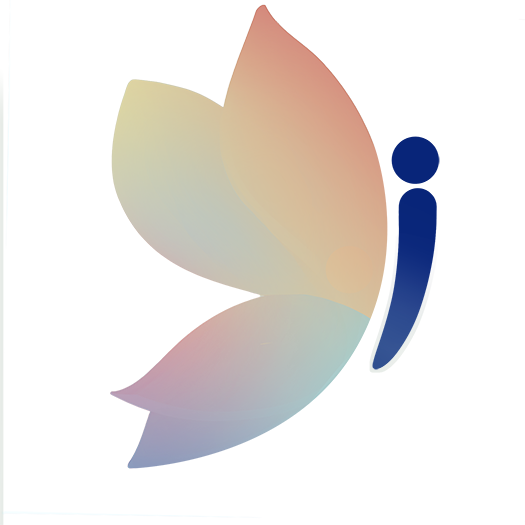
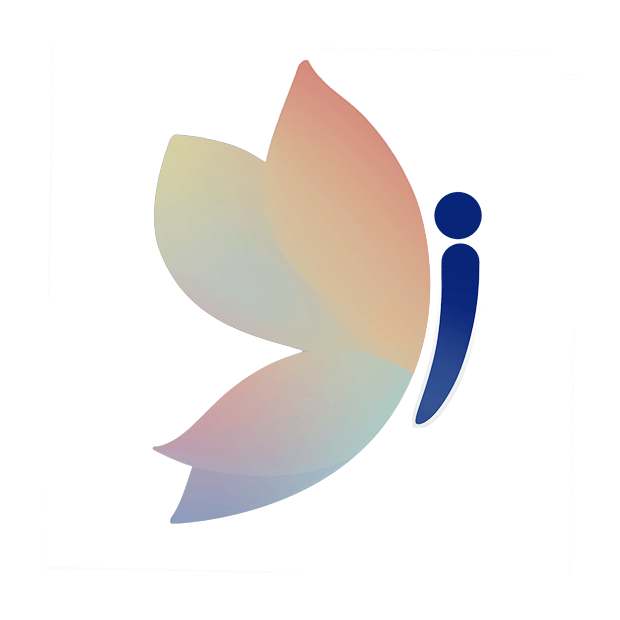
design port update

diff --git a/designPortfolio.html b/designPortfolio.html
@@ -42,6 +42,17 @@
   <div class="over">
     <i class="far fa-times-circle close" id="ex"></i>
     <p class="desc hide">
+      Design of <a href="https://www.lysol.ca/en/biodegradable/biodegradable-wipes/">Lysol Canada’s webpage</a> promoting new biodegradable wipes, including animated videos (2021).
+      <span>
+        (Please note, I was not involved in the development of these pages)
+      </span>
+    </p>
+    <a href="_design/assets/bio1.jpg"><img src="_design/assets/bio1.jpg" alt="" /></a>
+    <a href="_design/assets/bio2.jpg"><img src="_design/assets/bio2.jpg" alt="" /></a>
+    <iframe src="https://www.youtube.com/embed/0n-9yjpfWlg" title="YouTube video player" allow="accelerometer; autoplay; clipboard-write; encrypted-media; gyroscope; picture-in-picture" allowfullscreen></iframe>
+    <iframe src="https://www.youtube.com/embed/w79df_pg3Y0" allow="accelerometer; autoplay; clipboard-write; encrypted-media; gyroscope; picture-in-picture" allowfullscreen></iframe>
+    
+    <p class="desc hide">
       Redesign of <a href="http://www.woolite.ca">Woolite Canada’s</a>
        website. (2020)
       <span>
@@ -131,6 +142,7 @@
         <i class="far fa-times-circle close" id="ex"></i>
         <p class="desc hide"> Flyers and social media graphics marketing services and events</p>
         <a href="_design/assets/bikechain-flyer.jpg"><img src="_design/assets/bikechain-flyer.jpg" alt="flyer for Bikechain" /></a>
+        <a href="_design/assets/flat-fix.jpg"><img src="_design/assets/flat-fix.jpg" alt="flyer for Bikechain" /></a>
 
         <p class="desc hide"> Annual administrative reports for Bikechain, a bicycle cooperative in Toronto (2018-2020)</p>
 
@@ -155,18 +167,19 @@
     <li>
       <div class="over">
         <i class="far fa-times-circle close" id="ex"></i>
-        <p class="desc hide"> Logo illustration and UI design for The Interpreters Lab, (nb: placeholder images and copy are used throughout to anonymize unofficial client info) </p>
-        <a href="_design/assets/butterfly.jpg"><img src="_design/assets/butterfly.jpg" alt="flyer for Bikechain" /></a>
+        <p class="desc hide"> Logo illustration and UI design for The Interpreters Lab <span>(nb: placeholder images and copy are used throughout to anonymize unofficial client info) </span> </p>
+        <a href="_design/assets/Butterfly.png"><img src="_design/assets/Butterfly.png" alt="butterfly illustration"/></a>
+        <a href="_design/assets/Butterfly2.png"><img src="_design/assets/Butterfly2.png" alt="butterfly illustration"/></a>
         <a href="_design/assets/intlab.jpg"><img src="_design/assets/intlab.jpg" alt="flyer for Bikechain" /></a>
        
       </div>
 
       <div class="box">
-        <h3>The Interpreters Lab<br>Logo + Web Design</h3>
+        <h3>Interpreters Lab<br>Logo + Web Design</h3>
         <div class="blue">
       </div>
 
-      <img src="_design/assets/butterfly.jpg" class="circleImg" alt="">
+      <img src="_design/assets/butterfly.png" class="circleImg" alt="">
     </li>
 
 

diff --git a/_design/designStyles/styles.css b/_design/designStyles/styles.css
@@ -435,12 +435,11 @@ p, h3 {
   font-size: 1.14vw;
   line-height: 1.4;
   text-transform: uppercase;
-  text-align: justify;
   margin: auto;
 }
 
 span {
-  font-size: 1vw;
+  font-size: .7vw;
   line-height: 1.2;
   display: block;
   text-transform: none;
@@ -455,6 +454,12 @@ i {
   top: 0px;
   right: 0px;
   cursor: pointer;
+  -webkit-transition: .2s;
+  transition: .2s;
+}
+
+i:hover {
+  color: #d16602;
 }
 
 .hide {
@@ -518,8 +523,8 @@ a {
   width: 100%;
   height: 100%;
   border-radius: 50%;
-  -webkit-transition: .2s ease-in-out;
-  transition: .2s ease-in-out;
+  -webkit-transition: .2s;
+  transition: .2s;
   z-index: 1;
   -ms-grid-row: 1;
   -ms-grid-column: 1;
@@ -528,17 +533,20 @@ a {
 }
 
 .blue:hover {
-  background: #af750a;
+  background: #d16602;
 }
 
 h3 {
   color: #f2f1ef;
-  font-size: 2vmax;
+  font-size: 1.5vmax;
   -ms-grid-row: 1;
   -ms-grid-column: 1;
   grid-area: 1 / 1;
   z-index: 2;
   text-align: center;
+  pointer-events: none;
+  width: 95%;
+  margin: auto;
 }
 
 ul {

diff --git a/_design/designStyles/styles.scss b/_design/designStyles/styles.scss
@@ -142,12 +142,12 @@ p, h3 {
   font-size: 1.14vw;
   line-height: 1.4;
   text-transform: uppercase; 
-  text-align: justify;
+  // text-align: justify;
   margin: auto;
 }
 
 span {
-  font-size: 1vw;
+  font-size: .7vw;
   line-height: 1.2;
   display: block;
   text-transform: none;
@@ -162,6 +162,10 @@ i {
   top: 0px;
   right: 0px;
   cursor: pointer;
+  transition: .2s;
+  &:hover {
+    color: #d16602;
+  }
 }
 
 .hide {
@@ -220,21 +224,24 @@ a {
   width: 100%;
   height: 100%;
   border-radius: 50%;
-  transition: .2s ease-in-out;
+  transition: .2s;
   z-index: 1;
   grid-area: 1 / 1;
   cursor: pointer;
   &:hover {
-    background: #af750a;
+    background: #d16602;
   }
 }
 
 h3 {
   color: #f2f1ef;
-  font-size: 2vmax;
+  font-size: 1.5vmax;
   grid-area: 1 / 1;
   z-index: 2;
   text-align: center;
+  pointer-events: none;
+  width: 95%;
+  margin: auto;
 }
 
 
